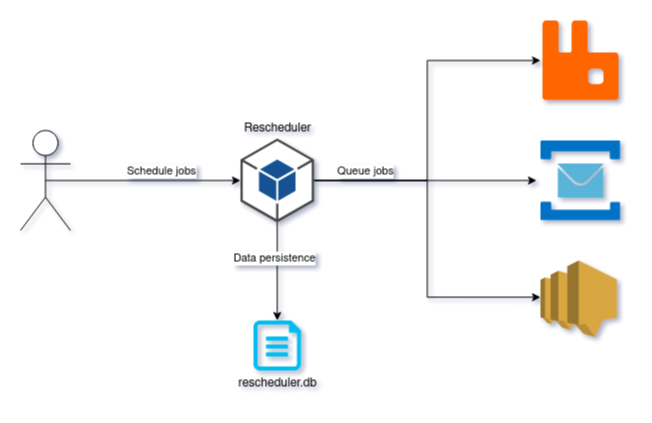
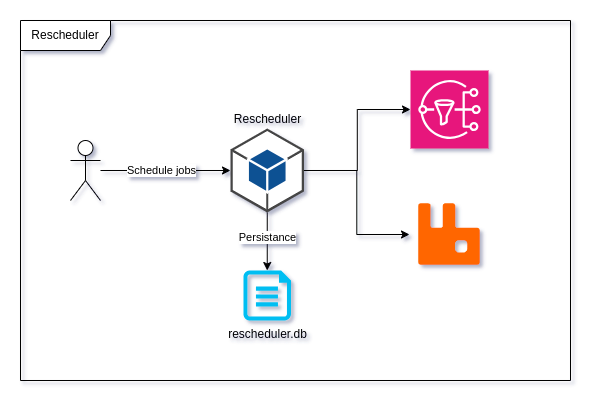
update docs

diff --git a/README.md b/README.md
@@ -13,7 +13,7 @@ Rescheduler-lite is in development and thus all warnings apply; feel free to pla
 - Built-in observability
 - Build-in backup and restore
 - Build on top of standard components
-- Leverage [RabbitMQ](https://www.rabbitmq.com), [Azure Service Bus](https://azure.microsoft.com/services/service-bus/), or [Aws SNS](https://aws.amazon.com/sns) for message passing
+- Leverage [RabbitMQ](https://www.rabbitmq.com), or [Aws SNS](https://aws.amazon.com/sns) for message passing
 
 # Goals
 
@@ -27,7 +27,7 @@ rescheduler-lite aims to take away this generic scheduling of jobs while not hav
 
 # High level architecture
 
-Rescheduler-lite is a self-contained application that doesn't require dedicated services, outside of an RabbitMQ node, Azure Service bus queue, or Aws SNS topic, to run. The binary can be ran on any machine with a supported cpu architecture as long as it has read and write access to the database file.
+Rescheduler-lite is a self-contained application that doesn't require dedicated services, outside of an RabbitMQ node or Aws SNS topic to run. The binary can be ran on any machine with a supported cpu architecture as long as it has read and write access to the database file.
 
 For recommended hardware specifications refer to the [Deployment](#deployment) section. The diagram below should give a basic understanding of how rescheduler-lite functions on a high level.
 
@@ -43,7 +43,7 @@ API docs can be accessed on `/api/docs`, when running the docker-compose http://
 
 Rescheduler-lite consists of a single binary that can be deployed virtually everywhere. The only constraint is the availability of some form of persistent storage.
 
-Alongside rescheduler-lite it is needed to deploy a messaging technology. Currently RabbitMQ, Azure Service Bus, and AWS SNS are supported. These messaging technologies are needed to pass messages from rescheduler-lite to consumers.
+Alongside rescheduler-lite it is needed to deploy a messaging technology. Currently RabbitMQand AWS SNS are supported. These messaging technologies are needed to pass messages from rescheduler-lite to consumers.
 
 ## Binary
 
